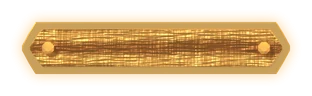
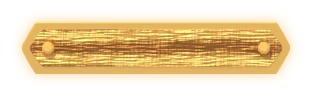
ui: HUD lit by the actors' sun, carved tag and wave strip (TB-263)
carve_hud.py and carve.py light every piece from the field sun's
direction and colour (38 deg to the face, sky fill 0.35); wall bar,
gem, banner, stamp, March plaque and button re-rendered. The barricade
label hangs on a carved tag; the wave strip is a carved rail with the
lit fill (src/render/waveStrip.ts, WAVE_STRIP). Docs: ART-STYLE,
BACKLOG, log.

Changed region(s): [[0.0577, 0.2188, 0.9519, 0.7812]]

diff --git a/src/render/field.ts b/src/render/field.ts
@@ -24,6 +24,7 @@ import { depthScale, depthY, setMeadowTop, worldY } from './depth';
 import { Interp } from './interp';
 import { FIELD_VIEW, GAIT, PHONE_QUERY, QUALITY, WALL_ART, WALL_FRONT, LOOT_VFX, ORC_SHADOW, ORC_SHADOW_BASE, ORC_SPRITE, SKY, TREELINE, VFX, DEPTH, FLIPBOOK_SIZE, dusk } from '../data/presentation';
 import { Flipbooks } from './flipbook';
+import { WaveStrip } from './waveStrip';
 import { SLOTS } from '../data/loot';
 import { BOSS_ROSTER } from '../data/bosses';
 import { quality, fitScale } from './quality';
@@ -63,6 +64,8 @@ export class FieldRenderer {
   private fx = new Particles();
   /** One-shot flipbooks: lit Cycles strips (TB-262) for the arrow strike, shatter, orc death, wall dust and boss slam; pixel lightning (TB-240). */
   private books = new Flipbooks();
+  /** The wave progress strip: a carved rail lit like the HUD (TB-263). */
+  private strip = new WaveStrip();
   private shake = 0;
   private storms: { pts: [number, number][]; life: number; c: string }[] = [];
   private impacts: { x: number; y: number; r: number; life: number }[] = [];
@@ -388,14 +391,9 @@ export class FieldRenderer {
     // HUD overlays (no shake)
     g.setTransform(sx, 0, 0, sy, ox, oy);
     // The wall bar, barricade and vanguard counts are the DOM HUD now (TB-195b, src/ui/hud.ts); the wave strip stays on the field.
-    // TB-207: the strip floats inside the field (inset clear of the full-screen side crop), rounded, instead of running along its edge
+    // TB-207: the strip floats inside the field (inset clear of the full-screen side crop); TB-263 carves it like the wall bar
     const wx = BAR_X + BAR_W / 2 + FIELD_VIEW.reach + 12, wy = H - 15 - (this.phone ? FIELD_VIEW.phoneStripLift : 0), ww = W - 40 - wx, wh = 6, wt = Math.min(1, s.run.waveT / WAVE_LEN);
-    g.fillStyle = P.ink; g.globalAlpha = 0.6; g.beginPath(); g.roundRect(wx - 2, wy - 2, ww + 4, wh + 4, wh / 2 + 2); g.fill(); g.globalAlpha = 1;
-    g.fillStyle = P.dim45; g.beginPath(); g.roundRect(wx, wy, ww, wh, wh / 2); g.fill();
-    if (wt > 0) { g.fillStyle = P.amber; g.beginPath(); g.roundRect(wx, wy, Math.max(wh, ww * wt), wh, wh / 2); g.fill(); }
-    // a cream rim and a glowing bead at the leading edge, so the strip reads as a finished gauge
-    g.strokeStyle = P.cream; g.globalAlpha = 0.35; g.lineWidth = 1; g.beginPath(); g.roundRect(wx - 1, wy - 1, ww + 2, wh + 2, wh / 2 + 1); g.stroke(); g.globalAlpha = 1;
-    if (wt > 0) { const bx = wx + Math.max(wh, ww * wt) - wh / 2; g.fillStyle = P.amber; g.globalAlpha = 0.3; g.beginPath(); g.arc(bx, wy + wh / 2, wh * 1.4, 0, 6.28); g.fill(); g.globalAlpha = 1; g.fillStyle = P.cream; g.beginPath(); g.arc(bx, wy + wh / 2, wh * 0.45, 0, 6.28); g.fill(); }
+    this.strip.draw(g, wx, wy, ww, wh, wt);  // TB-263: a carved rail with the lit heartwood fill
     if (this.flash > 0) { this.flash -= dt; g.globalAlpha = Math.max(0, this.flash / LOOT_VFX.flashLife) * this.flashA; g.fillStyle = this.flashC; g.fillRect(this.vis.x0, this.vis.y0, this.vis.x1 - this.vis.x0, H - this.vis.y0); g.globalAlpha = 1; }
     if (this.edge > 0) { const M = LOOT_VFX.mythic; g.globalAlpha = (this.edge / M.edge) * (0.6 + 0.4 * Math.sin(this.clock * M.flicker)); g.strokeStyle = P.rose; g.lineWidth = M.edgeW; g.strokeRect(this.vis.x0 + M.edgeW / 2, this.vis.y0 + M.edgeW / 2, this.vis.x1 - this.vis.x0 - M.edgeW, H - this.vis.y0 - M.edgeW); g.globalAlpha = 1; }
     this.ceremony.draw(g, dt, this.vis.x0, this.vis.y0, this.vis.x1, H);

diff --git a/src/render/waveStrip.ts b/src/render/waveStrip.ts
@@ -1,0 +1,39 @@
+import { WAVE_STRIP } from '../data/presentation';
+import { P } from './palette';
+
+/** Where the carved wave strip (TB-263) lands for a channel at (x, y, w, h): the piece rect (taller than the channel, centred on it),
+ *  the drawn cap width, and the fill's left edge and full width inside the channel. */
+export function stripLayout(x: number, y: number, w: number, h: number): { y: number; h: number; cap: number; fx: number; fw: number } {
+  const S = WAVE_STRIP, ph = h / S.chan, k = ph / S.h, cap = S.cap * k, inset = S.inset * k;
+  return { y: y + h / 2 - ph / 2, h: ph, cap, fx: x + inset, fw: Math.max(0, w - 2 * inset) };
+}
+
+/** The wave progress gauge along the field's foot: the carved rail with the lit heartwood fill to `t` (0..1). Until both images
+ *  load it draws the TB-207 vector strip. */
+export class WaveStrip {
+  private rail: HTMLImageElement | null = null;
+  private fill: HTMLImageElement | null = null;
+
+  constructor() {
+    if (typeof Image === 'undefined') return;
+    const load = (src: string, set: (im: HTMLImageElement) => void): void => { const im = new Image(); im.onload = (): void => set(im); im.src = `${import.meta.env.BASE_URL}${src}`; };
+    load(WAVE_STRIP.src, (im) => { this.rail = im; }); load(WAVE_STRIP.fill, (im) => { this.fill = im; });
+  }
+
+  draw(g: CanvasRenderingContext2D, x: number, y: number, w: number, h: number, t: number): void {
+    if (this.rail && this.fill) { this.carved(g, this.rail, this.fill, x, y, w, h, t); return; }
+    g.fillStyle = P.ink; g.globalAlpha = 0.6; g.beginPath(); g.roundRect(x - 2, y - 2, w + 4, h + 4, h / 2 + 2); g.fill(); g.globalAlpha = 1;
+    g.fillStyle = P.dim45; g.beginPath(); g.roundRect(x, y, w, h, h / 2); g.fill();
+    if (t > 0) { g.fillStyle = P.amber; g.beginPath(); g.roundRect(x, y, Math.max(h, w * t), h, h / 2); g.fill(); }
+  }
+
+  private carved(g: CanvasRenderingContext2D, rail: HTMLImageElement, fill: HTMLImageElement, x: number, y: number, w: number, h: number, t: number): void {
+    const S = WAVE_STRIP, L = stripLayout(x, y, w, h), cap = Math.min(L.cap, w / 2);
+    g.drawImage(rail, 0, 0, S.cap, S.h, x, L.y, cap, L.h);
+    g.drawImage(rail, S.cap, 0, S.w - 2 * S.cap, S.h, x + cap, L.y, w - 2 * cap, L.h);
+    g.drawImage(rail, S.w - S.cap, 0, S.cap, S.h, x + w - cap, L.y, cap, L.h);
+    const fw = L.fw * Math.min(1, Math.max(0, t));
+    // the fill keeps its grain: the visible part is cut from the left of the strip, not squeezed
+    if (fw > 0) g.drawImage(fill, 0, 0, fill.width * (fw / L.fw), fill.height, L.fx, y, fw, h);
+  }
+}

diff --git a/src/data/presentation.ts b/src/data/presentation.ts
@@ -419,3 +419,7 @@ export type FlipbookKey = keyof typeof FLIPBOOK;
 export const FLIPBOOK_SIZE = { impactPerR: 2.4, lightningPerR: 7, shatterPerR: 2.4, deathPerR: 4, wallDust: 40, wallDustDx: 16, slamPerR: 3.2 } as const;
 /** Most flipbooks alive at once (TB-240): a mass kill at the 160-orc cap must not cost a frame; extra ones are dropped. */
 export const FLIPBOOK_CAP = 80;
+/** The field's wave progress strip as a carved rail (TB-263, art/ui/carve_hud.py `wavebar`, lit like the HUD): source px of the 2x
+ *  piece, the end caps that do not stretch (`cap`), where the channel's fill starts inside each end (`inset`, inner edge of the gilt
+ *  band) and the channel's share of the piece height (`chan`). The fill is the wall bar's lit heartwood. */
+export const WAVE_STRIP = { src: 'ui/wavebar@2x.webp', fill: 'ui/wallbar-fill@2x.webp', w: 1280, h: 64, cap: 80, inset: 66, chan: 0.3 } as const;

diff --git a/src/render/waveStrip.test.ts b/src/render/waveStrip.test.ts
@@ -1,0 +1,19 @@
+import { describe, expect, it } from 'vitest';
+import { stripLayout } from './waveStrip';
+import { WAVE_STRIP } from '../data/presentation';
+
+describe('carved wave strip layout (TB-263)', () => {
+  it('centres a piece on the channel so the channel is its carved groove', () => {
+    const L = stripLayout(100, 500, 800, 6);
+    expect(L.h).toBeCloseTo(6 / WAVE_STRIP.chan);
+    expect(L.y + L.h / 2).toBeCloseTo(503);
+  });
+
+  it('scales the caps and fill inset with the drawn height and fills between the gilt bands', () => {
+    const L = stripLayout(100, 500, 800, 6), k = 6 / WAVE_STRIP.chan / WAVE_STRIP.h;
+    expect(L.cap).toBeCloseTo(WAVE_STRIP.cap * k);
+    expect(L.fx).toBeCloseTo(100 + WAVE_STRIP.inset * k);
+    expect(L.fw).toBeCloseTo(800 - 2 * WAVE_STRIP.inset * k);
+    expect(WAVE_STRIP.inset).toBeLessThan(WAVE_STRIP.cap);
+  });
+});

diff --git a/src/ui/style.css b/src/ui/style.css
@@ -1092,3 +1092,8 @@ header, #hud, #toast, #campview, .wrap, .play { touch-action: pan-x pan-y; }
   body:not([data-mode="camp"]) .hud-wallbox { margin-right: 0.875rem; }
   body:not([data-mode="camp"]) .hud .stats { gap: 0.75rem; }
 }
+/* TB-263: the barricade label hangs under the wall bar on a carved tag (carve_hud.py `tag`, 192x40, caps 24) instead of a flat pill;
+   drawn at 0.8 scale (2rem tall, 1.2rem caps) so its nails stay round. */
+body:not([data-mode=camp]) .hud-wall .lbl { height: 2rem; line-height: 2rem; padding: 0 0.5rem; border-radius: 0; background: none; box-sizing: border-box;
+  border: solid transparent; border-width: 0 1.2rem; border-image: image-set(url("/ui/tag.webp") 1x, url("/ui/tag@2x.webp") 2x) 0 24 fill / 0 1.2rem stretch;
+  filter: drop-shadow(0 0.1875rem 0.25rem color-mix(in srgb, var(--ink) 70%, transparent)); }

diff --git a/art/ui/carve_hud.py b/art/ui/carve_hud.py
@@ -21,6 +21,26 @@ def reset():
     s.render.image_settings.file_format = 'PNG'; s.render.image_settings.color_mode = 'RGBA'
     return s
 
+def actors_sun(s, suns):
+    """TB-263: light the piece with the field actors' sun (lit_render: SUN -0.6,1.6,0.5, 3.2, angle 0.14, warm white, sky world
+    SKYC) so the HUD and the field share one light: the key comes from the same screen direction (upper left, 20.6 deg off
+    vertical) in the same warm white and softness. It meets the face-on plaque at 38 deg (HUDINC; the old key's tilt, so carved
+    relief still reads: 20 deg, the sun on the field ground, flattened it), and the sky fill is 0.35 (HUDAMB; 0.65 as on the
+    actors washed metallic gilt to flat pale yellow and wax to pink). The strongest sun becomes that key; the others are capped
+    at lit_render's rim 0.6, unshadowed. HUDLIT=0 renders the old studio light (TB-136/TB-195h)."""
+    from mathutils import Vector
+    az = Vector((-0.6, 1.6)).normalized(); inc = math.radians(float(os.environ.get('HUDINC', '38')))
+    d = Vector((az.x * math.sin(inc), az.y * math.sin(inc), math.cos(inc)))
+    key = max(suns, key=lambda o: o.data.energy)
+    for o in suns:
+        if o is key:
+            o.rotation_euler = d.to_track_quat('Z', 'Y').to_euler(); o.data.energy = 3.2; o.data.angle = 0.14; o.data.color = (1, 0.95, 0.85)
+        else:
+            o.data.energy = min(o.data.energy, 0.6); o.data.use_shadow = False
+    s.world.use_nodes = True; bg = s.world.node_tree.nodes['Background']
+    bg.inputs[0].default_value = [float(x) for x in os.environ.get('SKYC', '0.8,0.88,1').split(',')] + [1]
+    bg.inputs[1].default_value = float(os.environ.get('HUDAMB', '0.35'))
+
 def light_cam(w, h, px_w):
     """Top-down ortho camera over a w x h unit area rendered px_w wide. Key from the top left (as carve.py), a warm low
     rim from the top right that grazes every carved edge, a cool soft fill."""
@@ -35,6 +55,7 @@ def light_cam(w, h, px_w):
     sun('rim', 5.0, (1, 0.62, 0.3), 74, 135, 0.08)
     sun('fill', 0.5, (0.75, 0.82, 1), 60, 60, 0.6)
     s.world = bpy.data.worlds.new('w'); s.world.color = (0.04, 0.045, 0.04)
+    if os.environ.get('HUDLIT', '1') == '1': actors_sun(s, [o for o in s.collection.objects if o.type == 'LIGHT'])
 
 def render(name):
     if only and name not in only: return False
@@ -327,6 +348,30 @@ if want('wallbar-fill'):
     b = lit.node_tree.nodes['Principled BSDF']; b.inputs['Emission Color'].default_value = (*srgb('#ffb061'), 1); b.inputs['Emission Strength'].default_value = 0.6
     o = plank('fill', -3.8, -0.2, 3.8, 0.2, lit, 'x', 0.16, 0.02, 0.06)
     render('wallbar-fill')
+
+# --- barricade tag (TB-263): the small dark plaque that hangs under the wall bar and carries "Barricade 150 / 150", replacing the
+# flat CSS pill. A bark plank, gilt inlay line, a gilt nail at each end. 1x 192x40; 3-slice caps 24
+if want('tag'):
+    reset(); W, H = 4.8, 1.0; light_cam(W, H, 384); materials()
+    L, hh = 2.32, 0.4
+    body = box('body', -L, -hh, L, hh, 0.2, DARK, 0.1); relief(body, 'x', 0.035)
+    tube('inlay', rrect(-L + 0.4, -hh + 0.11, L - 0.4, hh - 0.11, 0.08), 0.022, GOLD, 0.21, True)
+    for sx in (-1, 1):
+        disc('nail', sx * (L - 0.2), 0, 0.075, 0.06, GOLD, 0.2, 0.025)
+    render('tag')
+
+# --- wave strip (TB-263): the field's wave progress gauge as a thin timber rail with a sunken channel and gilt bands, like the
+# wall bar; the lit heartwood fill (wallbar-fill) sits in the channel. 1x 640x32; 3-slice caps 40; channel 30% of the height
+if want('wavebar'):
+    reset(); light_cam(10.0, 0.5, 1280); materials()
+    L, hh, ch = 4.92, 0.22, 0.075
+    box('back', -L + 0.2, -ch - 0.01, L - 0.2, ch + 0.01, 0.06, flat('chan', '#120d09', 0.9), 0.01)
+    rnd = random.Random(5)
+    rail('top', L, ch, hh, [], rnd, 0, 0); rail('bot', L, -hh, -ch, [], rnd, 0, 0)
+    plank('cl', -L, -ch, -L + 0.2, ch, BARKV, 'y', 0.26, 0.02, 0.04); plank('cr', L - 0.2, -ch, L, ch, BARKV, 'y', 0.26, 0.02, 0.04)
+    for sx in (-1, 1):
+        box('band', sx * (L - 0.38) - 0.05, -hh - 0.01, sx * (L - 0.38) + 0.05, hh + 0.01, 0.3, GOLD, 0.02)
+    render('wavebar')
 
 # --- tab tokens: carved roundels with a gilt rim and a raised gilt emblem. 1x 72
 def token_base():

diff --git a/art/ui/carve.py b/art/ui/carve.py
@@ -42,6 +42,26 @@ def gold():
 
 def srgb(h): return tuple(((int(h[i:i+2], 16) / 255) ** 2.2) for i in (1, 3, 5))
 
+def actors_sun(s, suns):
+    """TB-263: light the piece with the field actors' sun (lit_render: SUN -0.6,1.6,0.5, 3.2, angle 0.14, warm white, sky world
+    SKYC) so the HUD and the field share one light: the key comes from the same screen direction (upper left, 20.6 deg off
+    vertical) in the same warm white and softness. It meets the face-on plaque at 38 deg (HUDINC; the old key's tilt, so carved
+    relief still reads: 20 deg, the sun on the field ground, flattened it), and the sky fill is 0.35 (HUDAMB; 0.65 as on the
+    actors washed metallic gilt to flat pale yellow and wax to pink). The strongest sun becomes that key; the others are capped
+    at lit_render's rim 0.6, unshadowed. HUDLIT=0 renders the old studio light (TB-136/TB-195h)."""
+    from mathutils import Vector
+    az = Vector((-0.6, 1.6)).normalized(); inc = math.radians(float(os.environ.get('HUDINC', '38')))
+    d = Vector((az.x * math.sin(inc), az.y * math.sin(inc), math.cos(inc)))
+    key = max(suns, key=lambda o: o.data.energy)
+    for o in suns:
+        if o is key:
+            o.rotation_euler = d.to_track_quat('Z', 'Y').to_euler(); o.data.energy = 3.2; o.data.angle = 0.14; o.data.color = (1, 0.95, 0.85)
+        else:
+            o.data.energy = min(o.data.energy, 0.6); o.data.use_shadow = False
+    s.world.use_nodes = True; bg = s.world.node_tree.nodes['Background']
+    bg.inputs[0].default_value = [float(x) for x in os.environ.get('SKYC', '0.8,0.88,1').split(',')] + [1]
+    bg.inputs[1].default_value = float(os.environ.get('HUDAMB', '0.35'))
+
 def light_cam(w, h):
     s = bpy.context.scene
     cam = bpy.data.cameras.new('cam'); cam.type = 'ORTHO'; cam.ortho_scale = max(w, h)
@@ -52,6 +72,7 @@ def light_cam(w, h):
     fill = bpy.data.lights.new('fill', 'SUN'); fill.energy = 0.6
     fo = bpy.data.objects.new('fill', fill); fo.rotation_euler = (math.radians(60), 0, math.radians(60)); s.collection.objects.link(fo)
     s.world = bpy.data.worlds.new('w'); s.world.color = (0.05, 0.06, 0.05)
+    if os.environ.get('HUDLIT', '1') == '1': actors_sun(s, [o for o in s.collection.objects if o.type == 'LIGHT'])
 
 def slab(name, verts2d, depth, bevel, mat):
     me = bpy.data.meshes.new(name); bm = bmesh.new()

diff --git a/art/ui/pack_hud.py b/art/ui/pack_hud.py
@@ -13,7 +13,7 @@ PIECES = {
     'gem': (14, 0.55), 'banner': (0, 0), 'wallbar': (0, 0), 'wallbar-crack1': (0, 0), 'wallbar-crack2': (0, 0),
     'wallbar-crack3': (0, 0), 'wallbar-fill': (0, 0), 'token-bow': (0, 0), 'token-satchel': (0, 0), 'token-seed': (0, 0),
     'token-cog': (0, 0), 'plate': (0, 0), 'satchel': (0, 0), 'pocket': (0, 0), 'report': (0, 0), 'stamp': (0, 0),
-    'march': (12, 0.75),
+    'march': (12, 0.75), 'tag': (0, 0), 'wavebar': (0, 0),
 }
 GLOW = (255, 196, 110)  # amber-hot starlight, between amber #e2a85b and fireCore #fff1c8
 
@@ -38,6 +38,7 @@ def save(im, path):
 
 total = 0
 for name, (r, k) in PIECES.items():
+    if not os.path.exists(os.path.join(raw, name + '.png')): continue  # TB-263: pack only what was re-rendered
     im = Image.open(os.path.join(raw, name + '.png')).convert('RGBA')
     if r: im = glow(im, r, k)
     # clear near-zero alpha dust so the edge is clean

diff --git a/docs/ART-STYLE.md b/docs/ART-STYLE.md
@@ -178,6 +178,14 @@ The richer carved wood (director 3 Nov, Hades reference): the TB-136 material pu
 - Wall-bar cracks are real splits: each rail is built from pieces between jagged crack lines, and per state the gaps widen
   and loose pieces tilt. Swallowtail ends are two convex halves (a concave ngon bevels into a stepped edge).
 - The report stamp is red-brown wax (#7a2a2a), a material colour, not the rose token; rose stays Heartwood and danger.
+- Lit by the actors' sun (TB-263, director 13 Nov): `actors_sun()` in `carve_hud.py` and `carve.py` (on by default, `HUDLIT=0` for the
+  old studio light) takes the key from the field sun's screen direction (upper left, `SUN=-0.6,1.6`) in its warm white and softness,
+  meeting the face-on plaque at 38° (`HUDINC`) with a sky fill of 0.35 (`HUDAMB`); the warm rim drops to lit_render's 0.6. The actors'
+  own 20° and 0.65 flattened the relief, washed metallic gilt to flat pale yellow and turned the wax pink. Relit: wall bar (all crack
+  states and fill), gem, banner, stamp, March plaque and `button.png` (so the panel buttons follow); other panel pieces unchanged.
+- The barricade label hangs on a carved `tag` (192x40, caps 24, drawn at 0.8 scale) instead of a flat pill. The field's wave strip
+  is a carved `wavebar` rail (640x32, caps 40, channel 30% of the height) with the wall bar's lit fill in its groove, drawn by
+  `src/render/waveStrip.ts` (`WAVE_STRIP` in presentation.ts); the TB-207 vector strip draws until both images load.
 
 ## Arcane skill tree (TB-163)
 

diff --git a/docs/BACKLOG.md b/docs/BACKLOG.md
@@ -310,6 +310,6 @@ Ids are stable (`TB-###`). Status: `todo` · `doing` · `review` · `done <hash>
 | TB-260 | Visual overhaul 4, treeline depth (director 12 Nov): depth and light across the treeline rows to match the lit actors | art | claude | done (f167ef9) |
 | TB-261 | Visual overhaul 5a, lighting and time of day (director 13 Nov): a warm grade or day-to-dusk over the waves, built on the existing 10-minute cycle; no tint over the plain (cut in TB-174) | art | claude | done (d4a7c8b) |
 | TB-262 | Visual overhaul 5b, hit and death VFX in the lit style (director 13 Nov): impacts and deaths that read with the baked light and shadows | art | claude | done (9ff3f4d) |
-| TB-263 | Visual overhaul 5c, UI and HUD restyle to match the painted look (director 13 Nov) | ui | claude | in progress |
+| TB-263 | Visual overhaul 5c, UI and HUD restyle to match the painted look (director 13 Nov) | ui | claude | done (PR pending) |
 | TB-264 | Actors drawn under the wall top (director 13 Nov: the ogre's cleaver and head under the log end): the unhazed wall-top redraw (TB-239) covered actors in front of it; `field.ts` wallFront redraws nearby actors, hazed, cut to the wall's pixels | render | claude | done (4dc9c0f) |
 | TB-265 | Wolf gallop looked fast-forwarded (director 13 Nov): GAIT.strideR.wolf 2.14 planted only the hind paws, so the run cycled 4.1/s; 4.19 from the mean paw-contact speed of the clip (2.1/s at speed 105) | art | claude | done (4dc9c0f) |

diff --git a/docs/log/2026-11-13.md b/docs/log/2026-11-13.md
@@ -31,3 +31,8 @@
 - Merged #323 d4a7c8b (TB-261).
 - Arrow strike, boss slam, orc death, frost shatter and wall dust are Cycles strips under the actors' sun (`scripts/vfx/render_vfx.py`, `pack_vfx.py`); lightning stays pixel. Director: "Ship it".
 - Learned: dust must be a volume (alpha-faded surfaces stipple); `lit_render.mask` greys anything semi-transparent, so effects keep only the catcher's own shadow. Still flat: the orange burst and blood squares on kills and hits.
+
+## TB-263 HUD relight
+- Merged #324 9ff3f4d (TB-262), #325 80f800f (hash).
+- The carved HUD is re-rendered under the actors' sun direction and colour; the barricade label and the wave strip are carved pieces now. Director: "Relight + flat bits", then "Ship it".
+- Learned: the actors' exact light (20 deg, sky 0.65) does not transfer to face-on plaques: relief flattens and metallic gilt mirrors the even sky into pale yellow. Keep the direction and colour, steepen the key (38 deg) and lower the sky (0.35).
